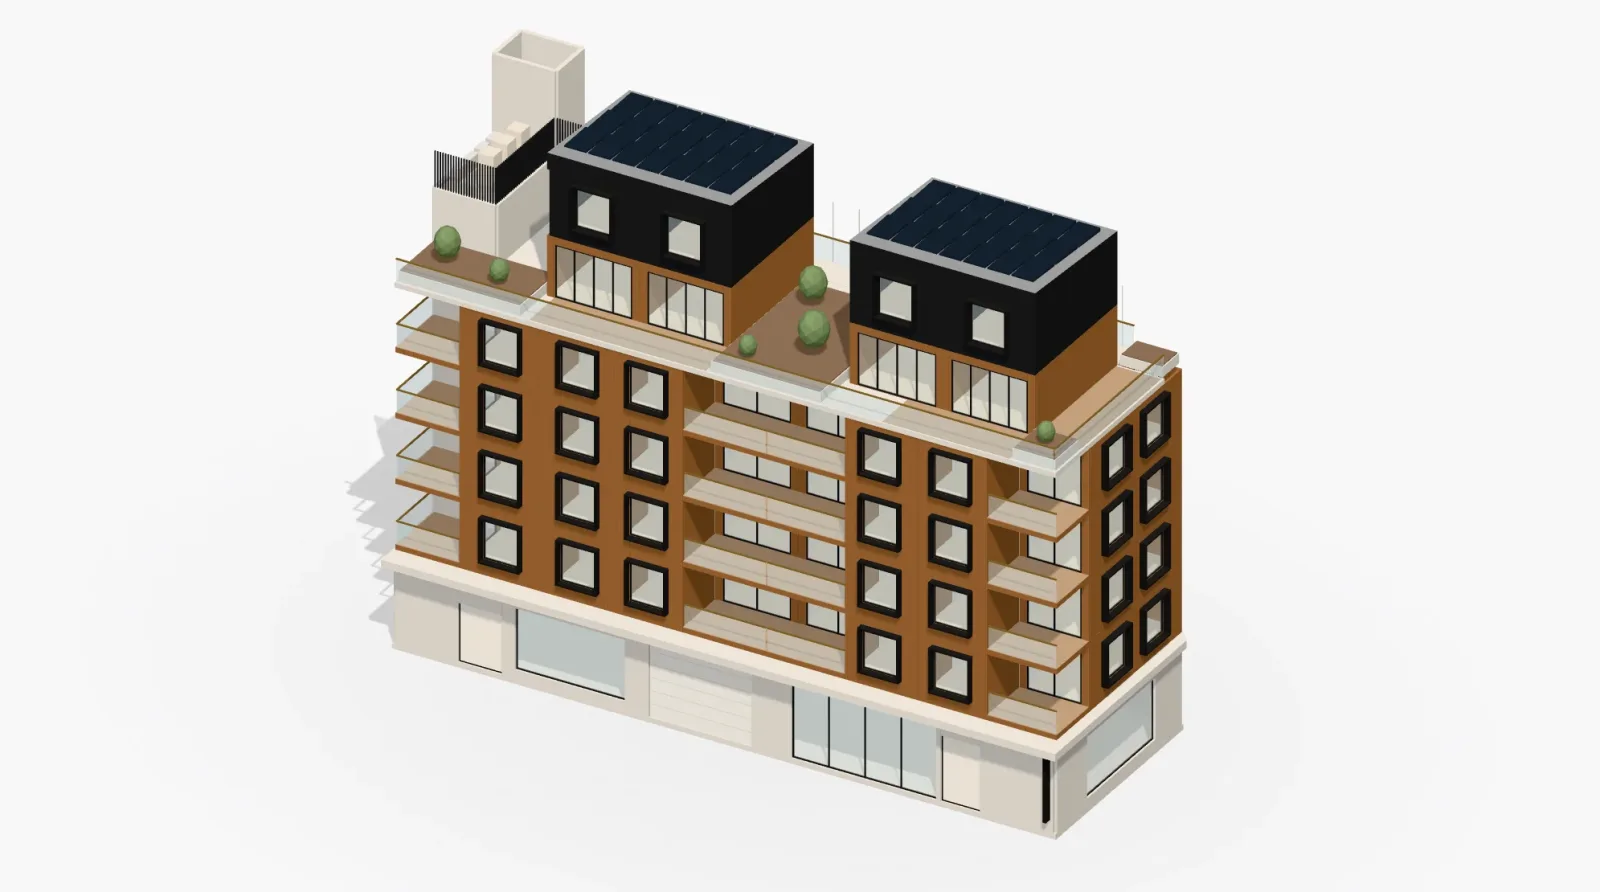
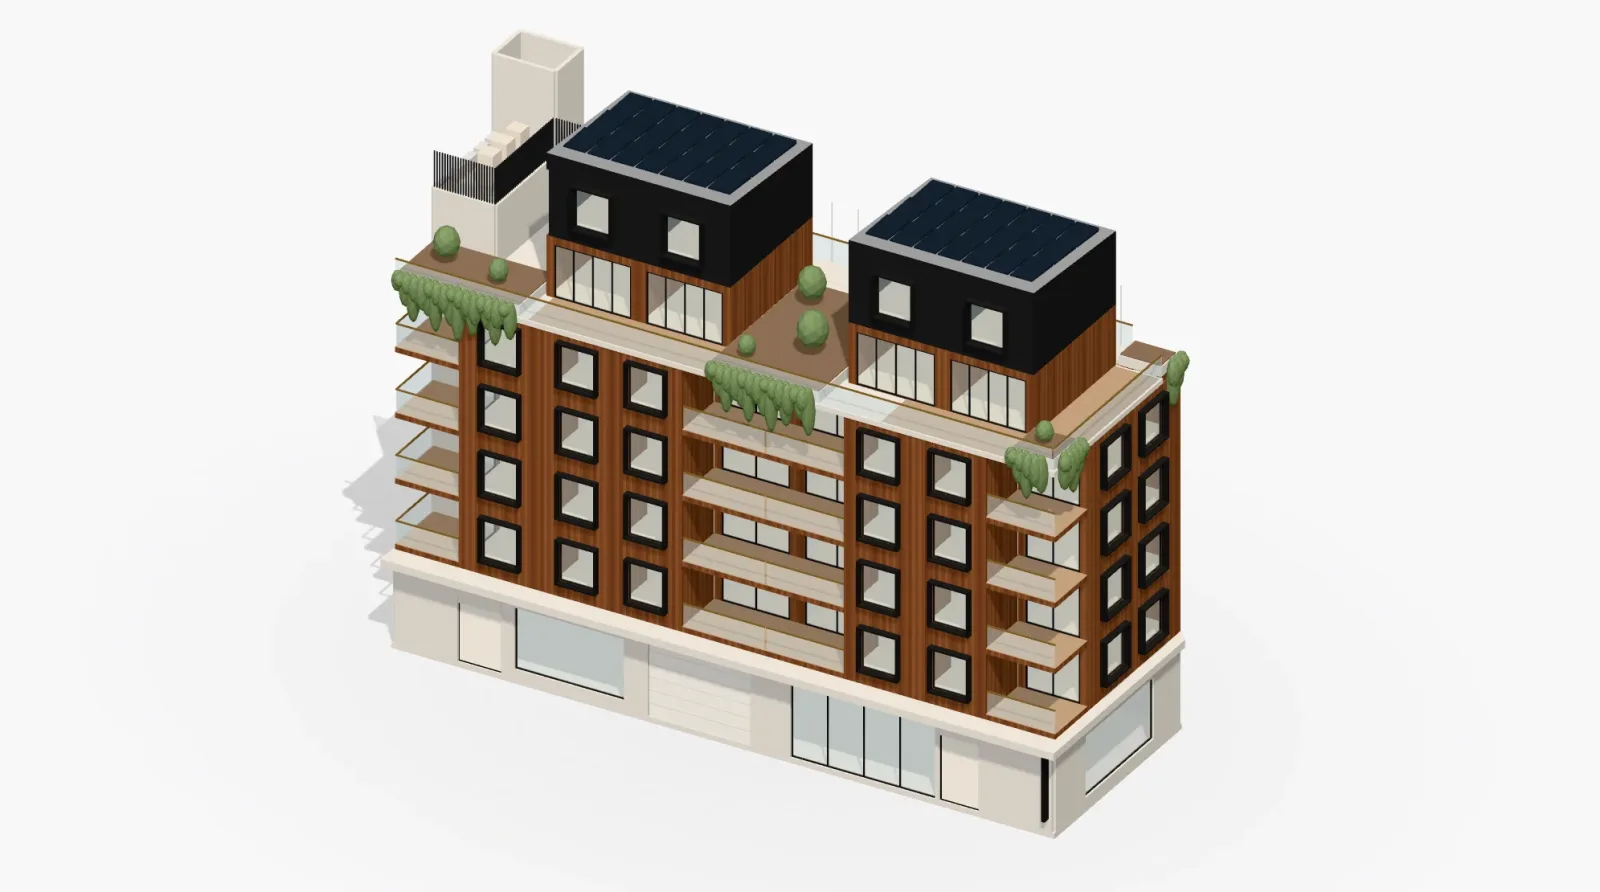
Refine the Rowland model's cladding and planting, highlight only on choice
The timber-look cladding is now a deeper reddish brown with boards that vary in
tone, planting trails over the level 5 edges and corners, and apartment types
are highlighted only once a type is chosen.

diff --git a/src/data/explorer/rowland.ts b/src/data/explorer/rowland.ts
@@ -337,6 +337,34 @@ for (let storey = 1; storey <= 6; storey++) {
   ] as const) {
     blocks.push(...pot<GroupId>("terraces", level, x, y + 0.2, z, s).map((b) => ({ ...b, part })).filter((b) => b.material === "foliage"));
   }
+  // Planting trailing over the edge of the level 5 gardens and down the corners (cover perspective)
+  const trail = (axis: "x" | "z", from: number, to: number, face: number) => {
+    // Two staggered rows of overlapping clumps, longer and shorter in a fixed irregular sequence
+    for (const [row, offset, out] of [
+      [0, 0, 0.0],
+      [1, 0.17, 0.14],
+    ] as const) {
+      let i = 0;
+      for (let u = from + offset; u <= to; u += 0.34, i++) {
+        const length = row === 0 ? 0.7 + ((i * 37) % 11) / 7 : 0.4 + ((i * 23) % 7) / 8;
+        const width = 0.28 + ((i * 13) % 5) / 25;
+        const top = y + 0.5;
+        const [a0, a1] = [u - width, u + width];
+        const [f0, f1] = [face - 0.08 + out, face + 0.42 + out];
+        blocks.push(
+          axis === "x"
+            ? { group: "terraces", level, part, min: [a0, top - length, f0], max: [a1, top + 0.15, f1], material: "foliage" }
+            : { group: "terraces", level, part, min: [f0, top - length, a0], max: [f1, top + 0.15, a1], material: "foliage" },
+        );
+      }
+    }
+  };
+  trail("x", 0.4, 5.5, DEPTH);
+  trail("x", 14.7, 19.2, DEPTH);
+  trail("x", 28.4, 29.9, DEPTH);
+  trail("z", 8.2, 9.8, LENGTH);
+  trail("z", 0.3, 1.3, LENGTH);
+
   // Glass edge along the street fronts
   blocks.push(...balustrade<GroupId>("terraces", level, [0.15, y, DEPTH - 0.08], [LENGTH - 0.15, y + 1.05, DEPTH - 0.05]).map((b) => ({ ...b, part })));
   blocks.push(...balustrade<GroupId>("terraces", level, [LENGTH - 0.08, y, Z_WALK], [LENGTH - 0.05, y + 1.05, DEPTH - 0.08]).map((b) => ({ ...b, part })));

diff --git a/src/lib/explorer/geometry.ts b/src/lib/explorer/geometry.ts
@@ -22,6 +22,30 @@ export function stripeTexture(size: number, base: string, line: string, count: n
   return texture;
 }
 
+/**
+ * Vertical boards that vary slightly in tone, with a dark joint between them (timber-look cladding). `tones` are
+ * picked in a fixed sequence so the texture is the same on every load.
+ */
+export function boardTexture(size: number, tones: readonly string[], joint: string, boards: number, jointWidth = 2) {
+  const canvas = document.createElement("canvas");
+  canvas.width = canvas.height = size;
+  const ctx = canvas.getContext("2d")!;
+  const step = size / boards;
+  for (let i = 0; i < boards; i++) {
+    ctx.fillStyle = tones[(i * 7 + 3) % tones.length];
+    ctx.fillRect(Math.round(i * step), 0, Math.ceil(step), size);
+    // A faint grain along each board
+    ctx.fillStyle = "rgba(0,0,0,0.05)";
+    for (let g = 0; g < 3; g++) ctx.fillRect(Math.round(i * step + ((g * 5 + i * 3) % step)), 0, 1, size);
+  }
+  ctx.fillStyle = joint;
+  for (let i = 0; i < boards; i++) ctx.fillRect(Math.round(i * step), 0, jointWidth, size);
+  const texture = new THREE.CanvasTexture(canvas);
+  texture.colorSpace = THREE.SRGBColorSpace;
+  texture.wrapS = texture.wrapT = THREE.RepeatWrapping;
+  return texture;
+}
+
 /** UVs are written in metres (see planarUVs), so `tile` is the texture's real-world size. */
 export function tiled(texture: THREE.Texture, tile: number, anisotropy: number) {
   texture.repeat.set(1 / tile, 1 / tile);

diff --git a/src/lib/explorer/build-model.ts b/src/lib/explorer/build-model.ts
@@ -1,6 +1,6 @@
 import * as THREE from "three";
 import { mergeGeometries } from "three/addons/utils/BufferGeometryUtils.js";
-import { Collector as SharedCollector, box, stripeTexture, tiled } from "./geometry";
+import { Collector as SharedCollector, boardTexture, box, stripeTexture, tiled } from "./geometry";
 import type { Downpipe, HouseData, Level, MaterialKey, Opening, RoofPrism, Slab, Wall } from "@/data/explorer/house";
 
 /**
@@ -68,7 +68,9 @@ function createMaterials(anisotropy: number): Record<MaterialKey, THREE.Material
     foliage: std("#6f855c", 0.9, 0, { flatShading: true }),
     trunk: std("#7b6553", 0.9),
     // Timber-look aluminium cladding (vertical boards) and the dark cladding on the lofts (25 On Rowland and Forrest)
-    timberClad: std("#ffffff", 0.7, 0.1, { map: tiled(stripeTexture(256, "#9a6a45", "#7f5636", 6, true, 3), 0.9, anisotropy) }),
+    timberClad: std("#ffffff", 0.72, 0.08, {
+      map: tiled(boardTexture(512, ["#7b4a32", "#86553a", "#734530", "#8d5c3f", "#7f4e35", "#6f432d"], "#4a2d1f", 8, 3), 1.2, anisotropy),
+    }),
     darkClad: std("#ffffff", 0.6, 0.2, { map: tiled(stripeTexture(256, "#2f3032", "#232426", 4, true, 3), 0.6, anisotropy) }),
   };
 }
